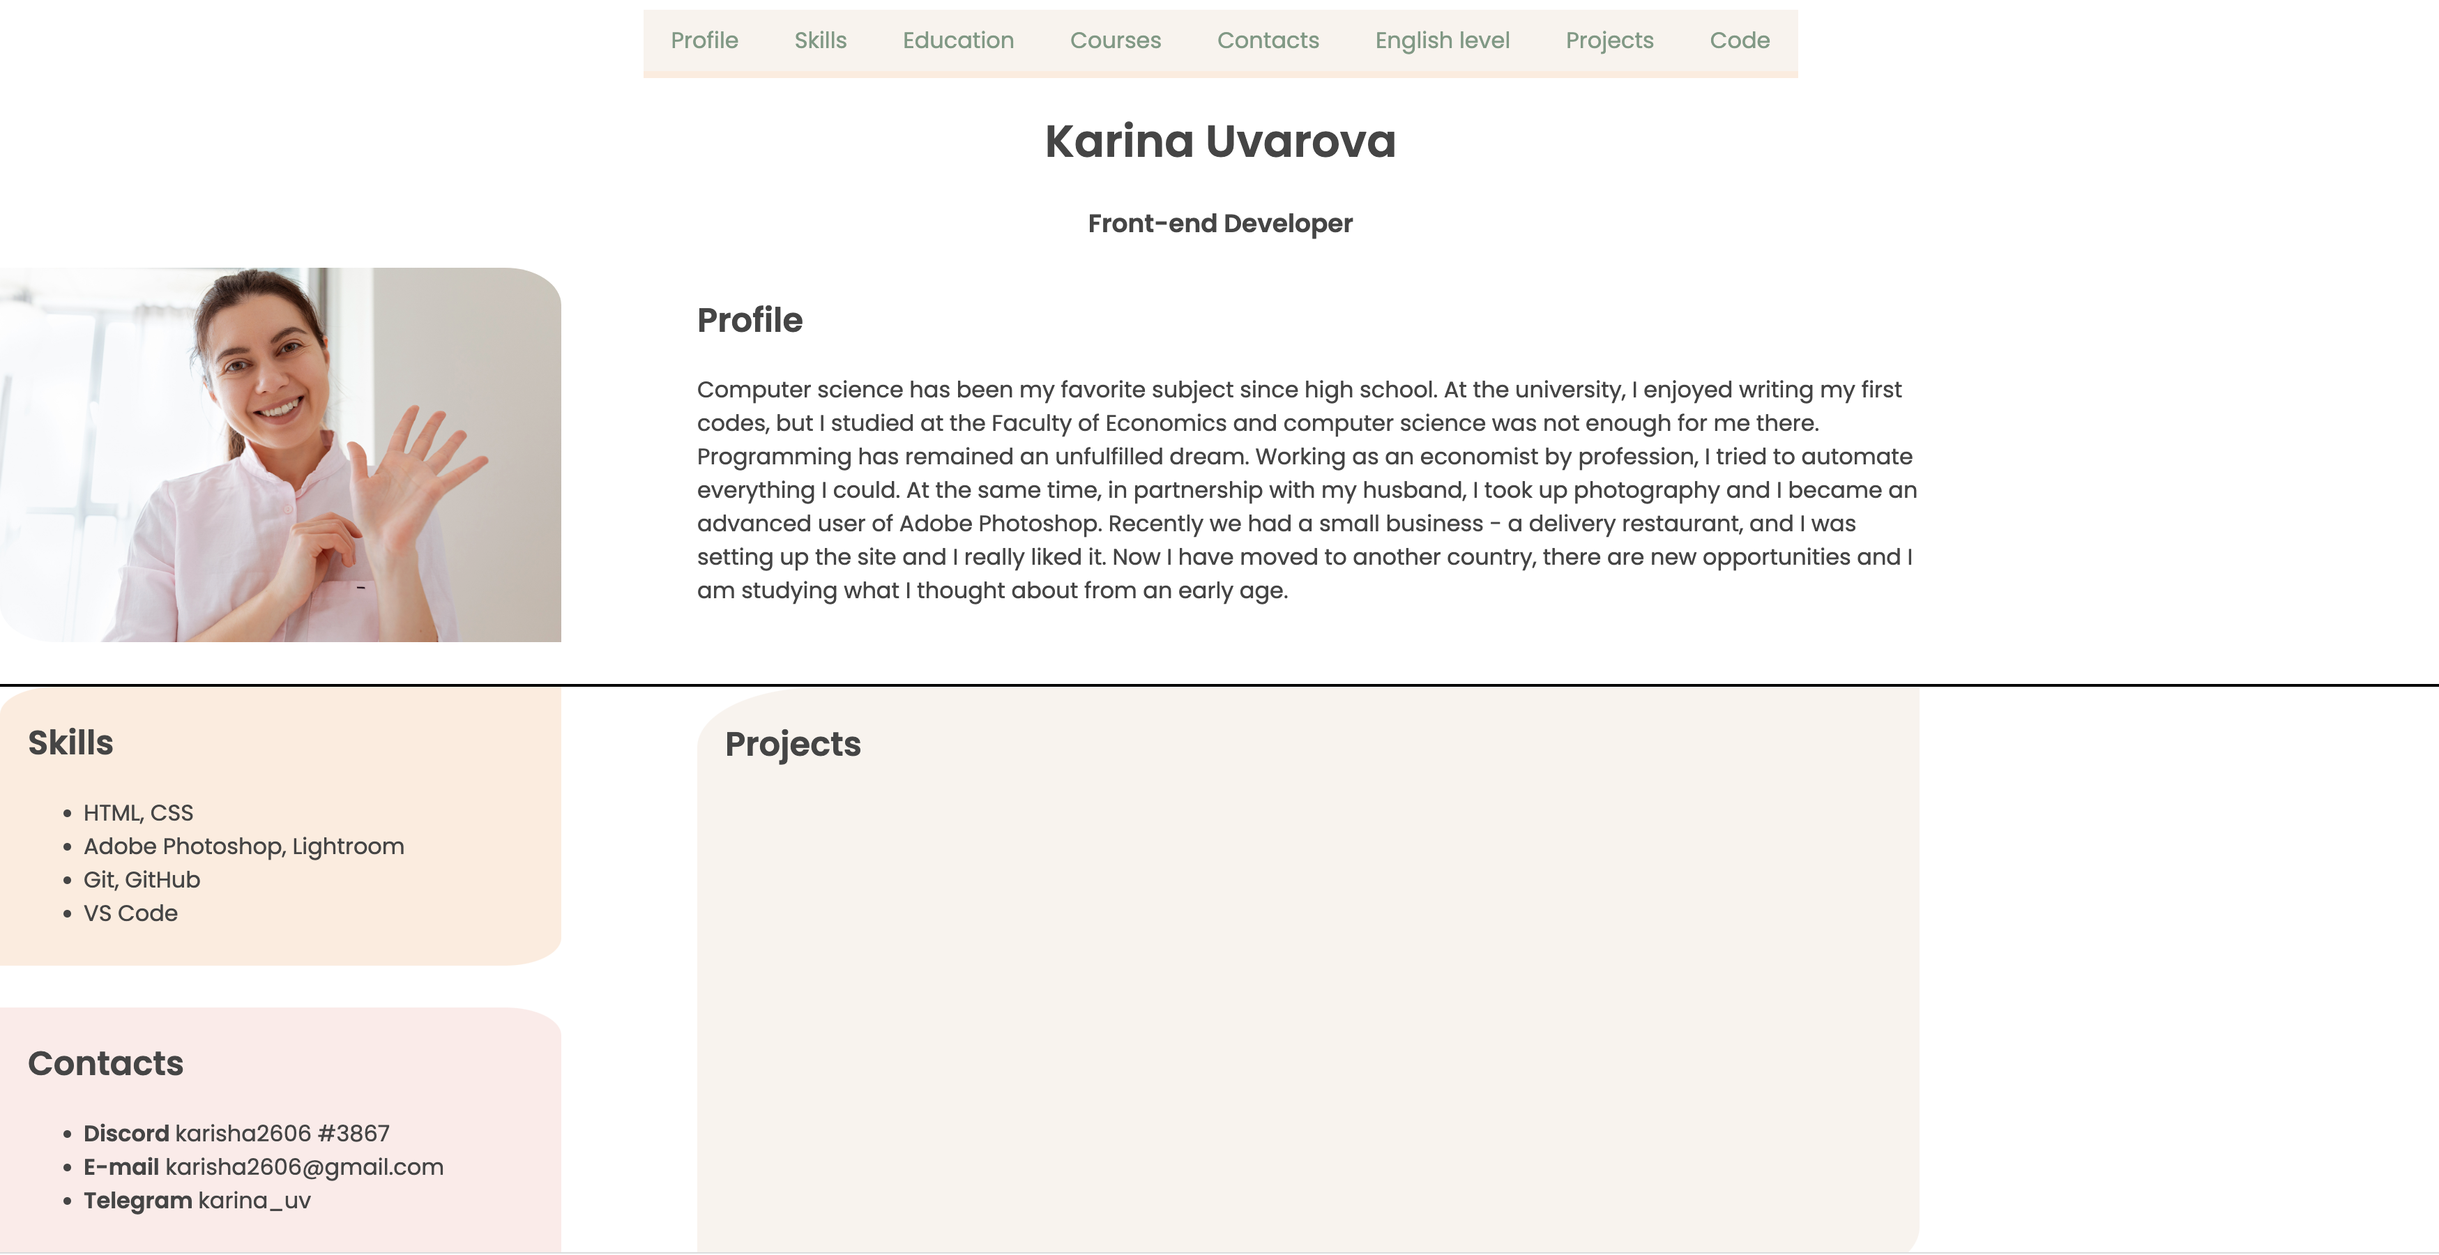
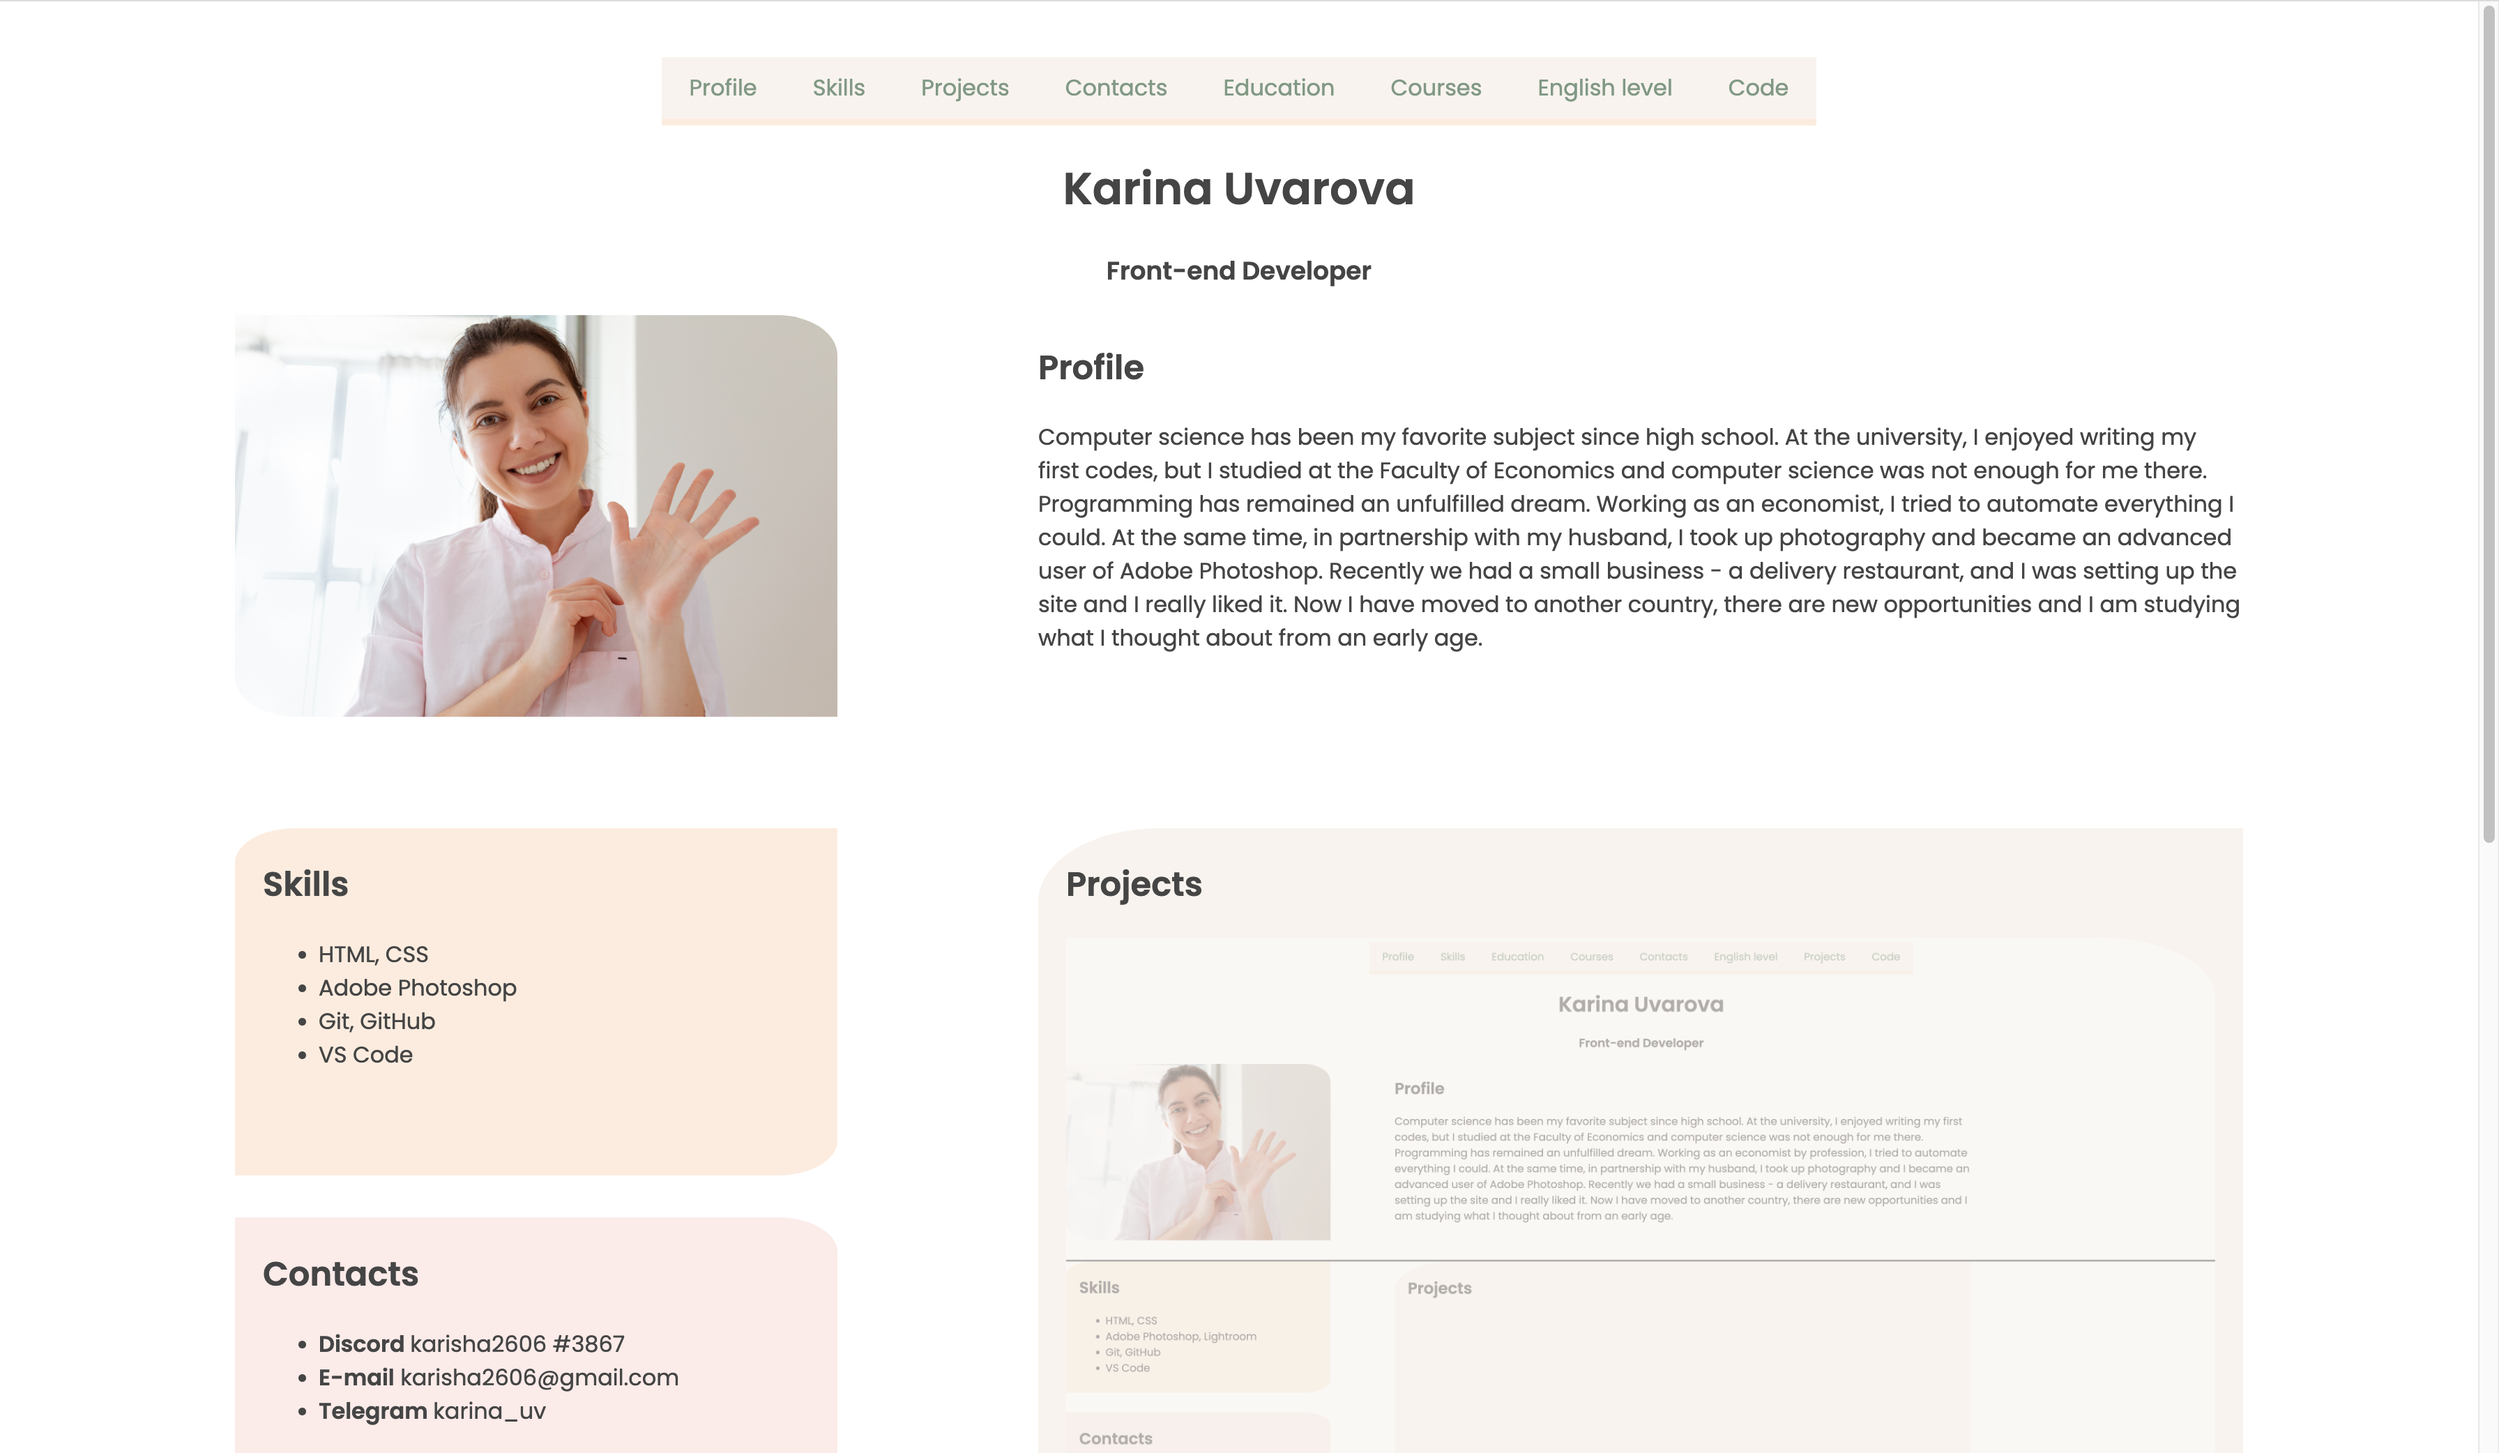
feat: add footer

diff --git a/index.html b/index.html
@@ -44,9 +44,9 @@
               <a href="#courses" class="nav-link">Courses</a>
             </li>
 
-          <li class="nav-item">
-            <a href="#English level" class="nav-link">English level</a>
-          </li>
+            <li class="nav-item">
+              <a href="#English level" class="nav-link">English level</a>
+            </li>
 
             <li class="nav-item">
               <a href="#code" class="nav-link">Code</a>
@@ -160,76 +160,15 @@
     <footer class="footer">
       <div class="container">
         <p>
-          <a href="https://karinauvarova.github.io/rsschool-cv/"
-            ><img src="assets/image2.jpg" class="img2" alt="My project"
+          <a href="https://rs.school/js/"
+            ><img src="assets/rs_school_js.svg" class="img3" alt="RS School"
+          /></a>
+          <a href="https://github.com/KarinaUvarova"
+            ><img src="assets/GitHub-Mark.png" class="img4" alt="GitHub"
           /></a>
         </p>
-      </section>
-      <section class="section3" id="contacts">
-        <h2 class="section-title">Contacts</h2>
-        <ul>
-          <li><b>Discord </b> karisha2606 #3867</li>
-          <li><b>E-mail</b> karisha2606@gmail.com</li>
-          <li><b>Telegram </b> karina_uv</li>
-        </ul>
-      </section>
-      <section class="section4" id="courses">
-        <h2 class="section-title">Courses</h2>
-        <table>
-          <tbody>
-            <tr>
-              <td>IT Fundamentals (EPAM)</td>
-              <td>
-                <a href="https://learn.epam.com/start">EPAM UpSkill Me</a>
-              </td>
-            </tr>
-            <tr>
-              <td>HTML and CSS Tutorials</td>
-              <td><a href="https://code-basics.com/ru">Code Basics</a></td>
-            </tr>
-            <tr>
-              <td>JavaScript/Front-end. Stage 0</td>
-              <td>
-                <a href="https://rollingscopes.com/"
-                  >The Rolling Scopes School</a
-                >
-              </td>
-            </tr>
-          </tbody>
-        </table>
-        <p></p>
-      </section>
-      <section class="section5" id="education">
-        <h2 class="section-title">Education</h2>
-        <p>2007-2012</p>
-        <p><b>Department of Economics</b></p>
-        <p>Ufa State Petroleum Technological University</p>
-      </section>
-      <section class="section6" id="English level">
-        <h2 class="section-title">English level</h2>
-        <p><b>B1 </b> by EF SET</p>
-        <p><b>A2 </b> by EPAM</p>
-      </section>
-      <section class="section7" id="code">
-        <h2 class="section-title">Code</h2>
-        <code
-          >function multiply(a, b){<br />
-          return a * b;<br />
-          }</code
-        >
-      </section>
-    </main>
-    <footer class="footer">
-      <div class="container"></div>
-      <p>
-        <a href="https://rs.school/js/"
-          ><img src="assets/rs_school_js.svg" class="img3" alt="RS School"
-        /></a>
-        <a href="https://github.com/KarinaUvarova"
-          ><img src="assets/GitHub-Mark.png" class="img4" alt="GitHub"
-        /></a>
-      </p>
-      <h4>2022</h4>
+        <h4>2022</h4>
+      </div>
     </footer>
   </body>
 </html>

diff --git a/style.css b/style.css
@@ -5,11 +5,14 @@ body {
   padding: 0;
   display: flex;
   flex-direction: column;
-  justify-content: space-between;
+  align-items: center;
+  width: 100%;
 }
 .footer {
   background-color: #f8f3ee;
   margin: 0 40px;
+  width: -webkit-fill-available;
+  max-width: 1440px;
 }
 .profile-container {
   display: flex;
@@ -24,6 +27,7 @@ body {
   justify-content: space-between;
   flex-wrap: wrap;
   margin: 40px;
+  max-width: 1440px;
 }
 .skills-contacts-wrapper {
   width: 30%;
@@ -103,19 +107,19 @@ img {
   opacity: 1;
 }
 .img3 {
-  width:5%;
+  width: 5%;
   float: left;
 }
 .img4 {
-  width:5%;
+  width: 5%;
   float: right;
 }
 .text-img {
-    position: absolute;
-    top: 50%;
-    left: 50%;
-    transform: translate(-50%, -50%);
-    background-color: #f8f3ee;
+  position: absolute;
+  top: 50%;
+  left: 50%;
+  transform: translate(-50%, -50%);
+  background-color: #f8f3ee;
 }
 h1 {
   color: #454545;
@@ -132,6 +136,10 @@ h1 {
   img {
     width: 100%;
     margin: 0 auto;
+  }
+  .img3,
+  .img4 {
+    width: 20%;
   }
   .main-container {
     margin-top: 0;
